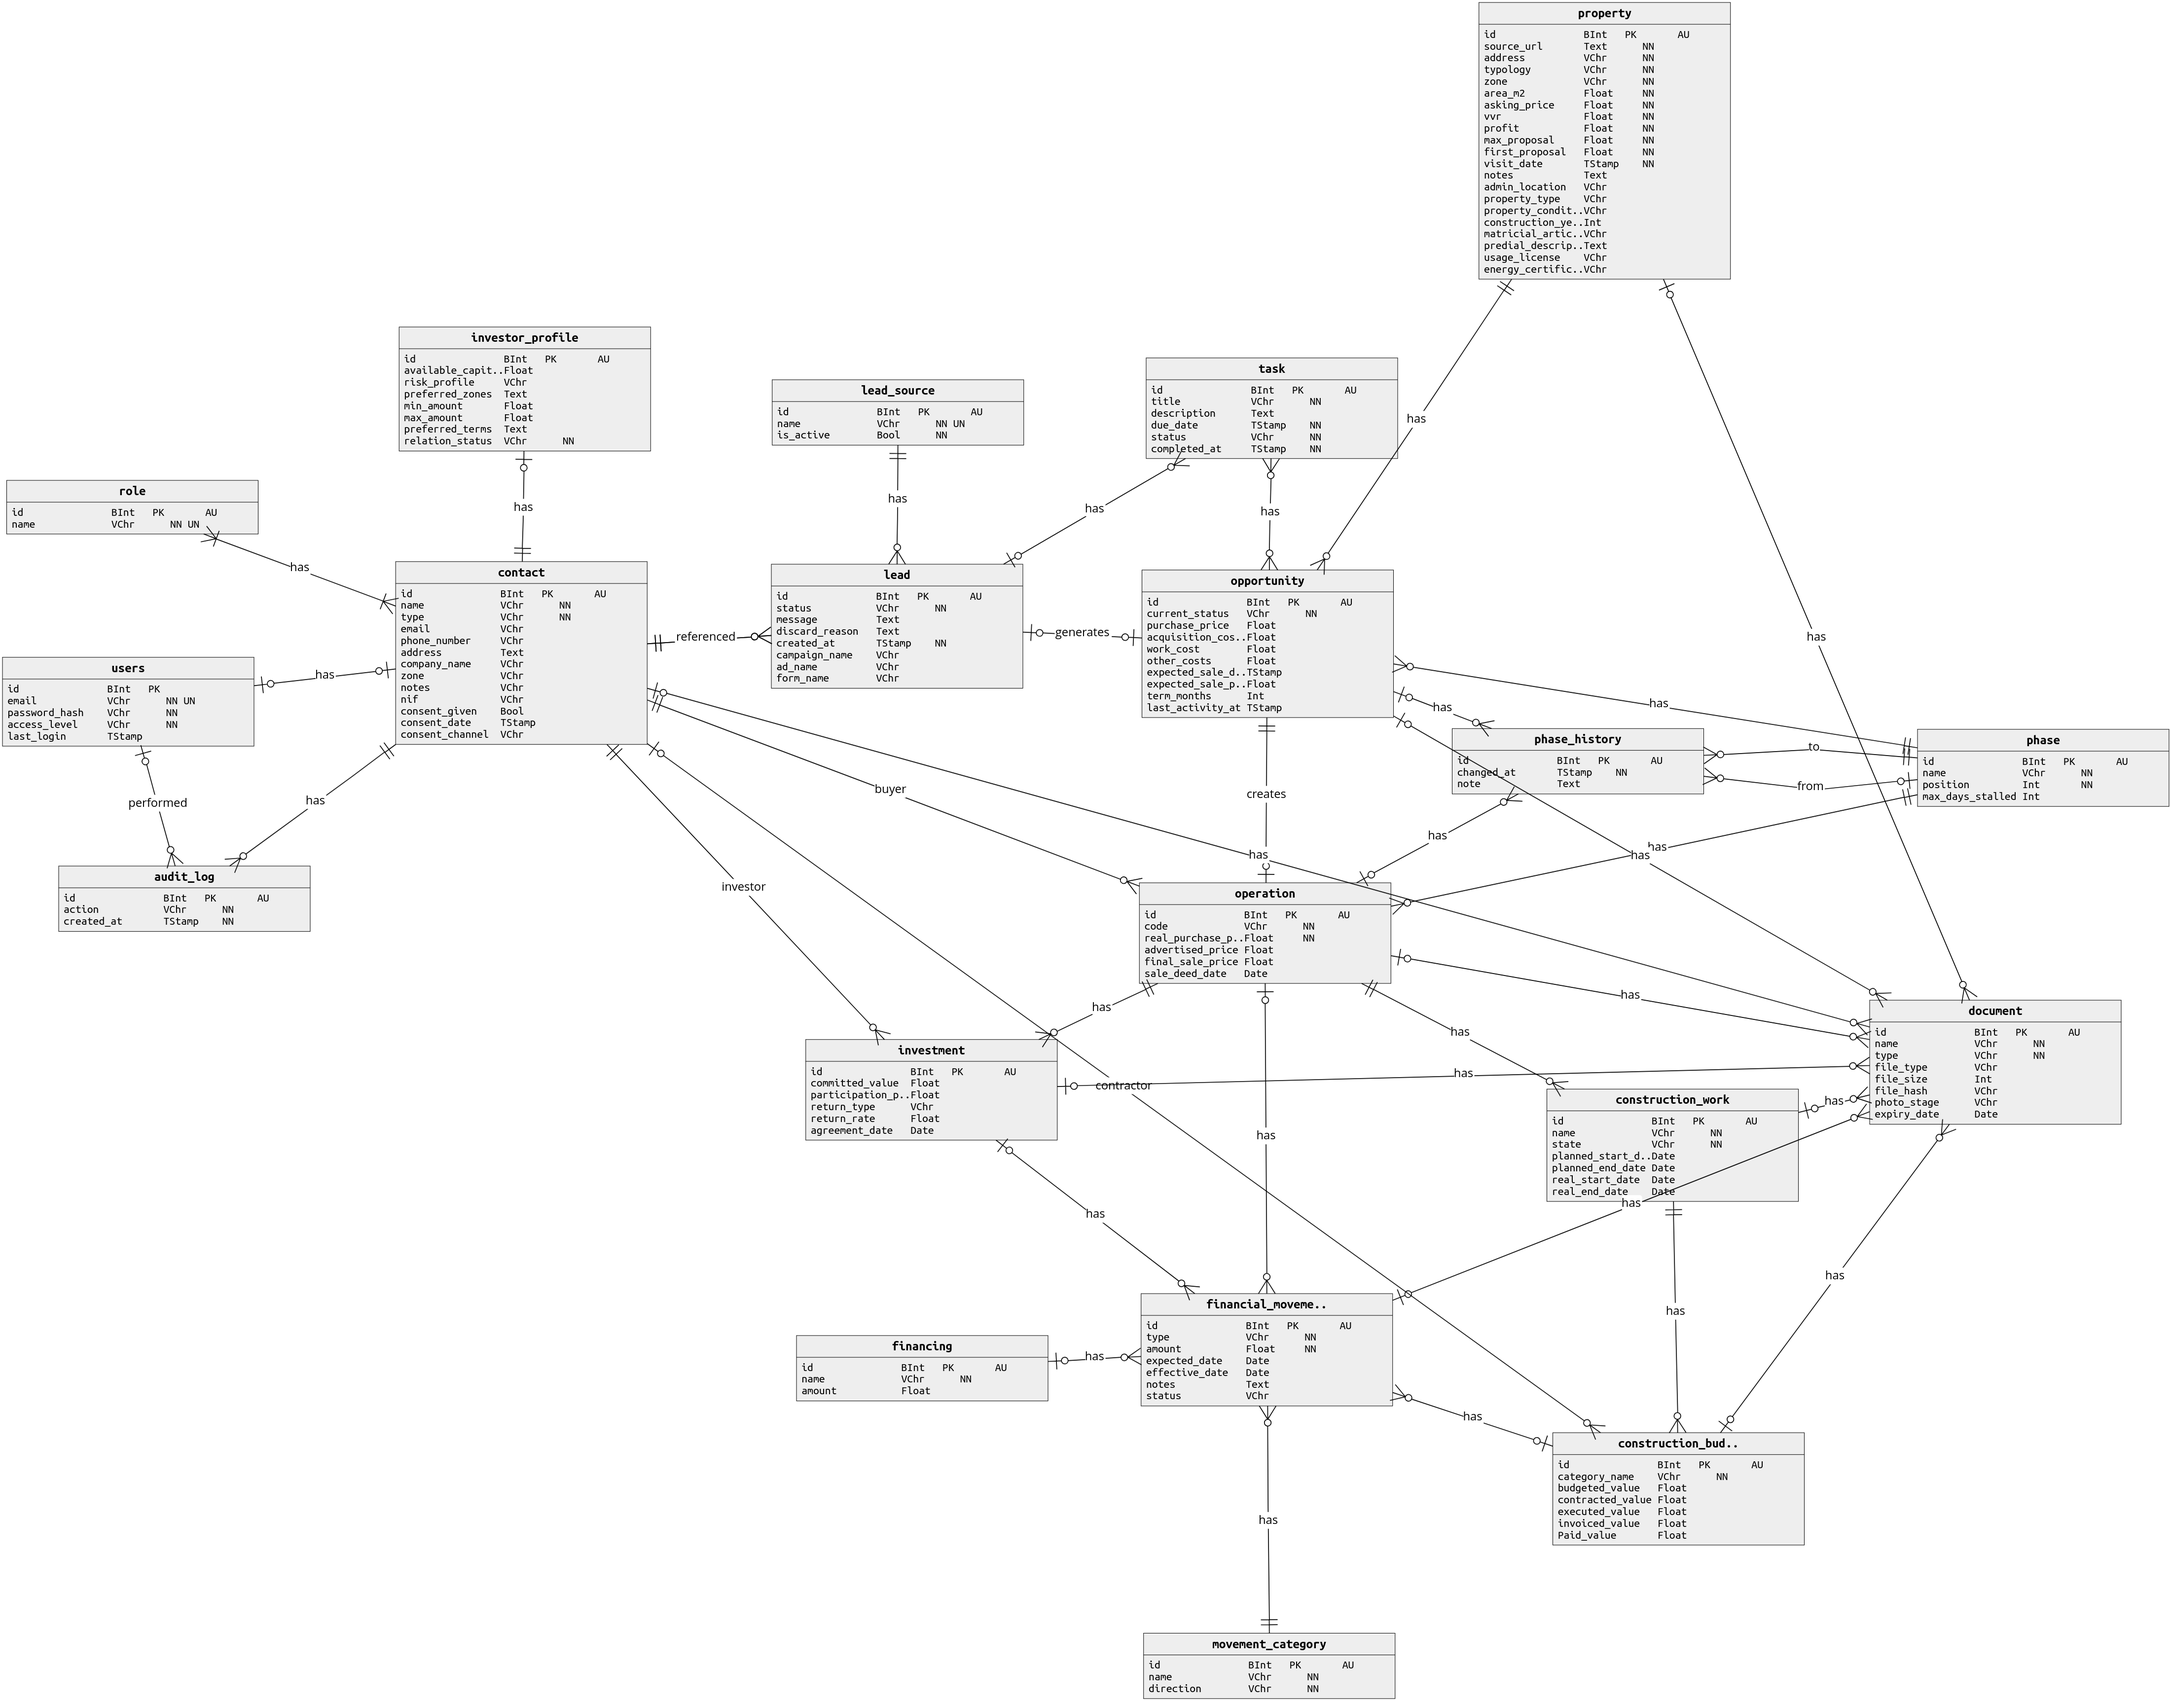
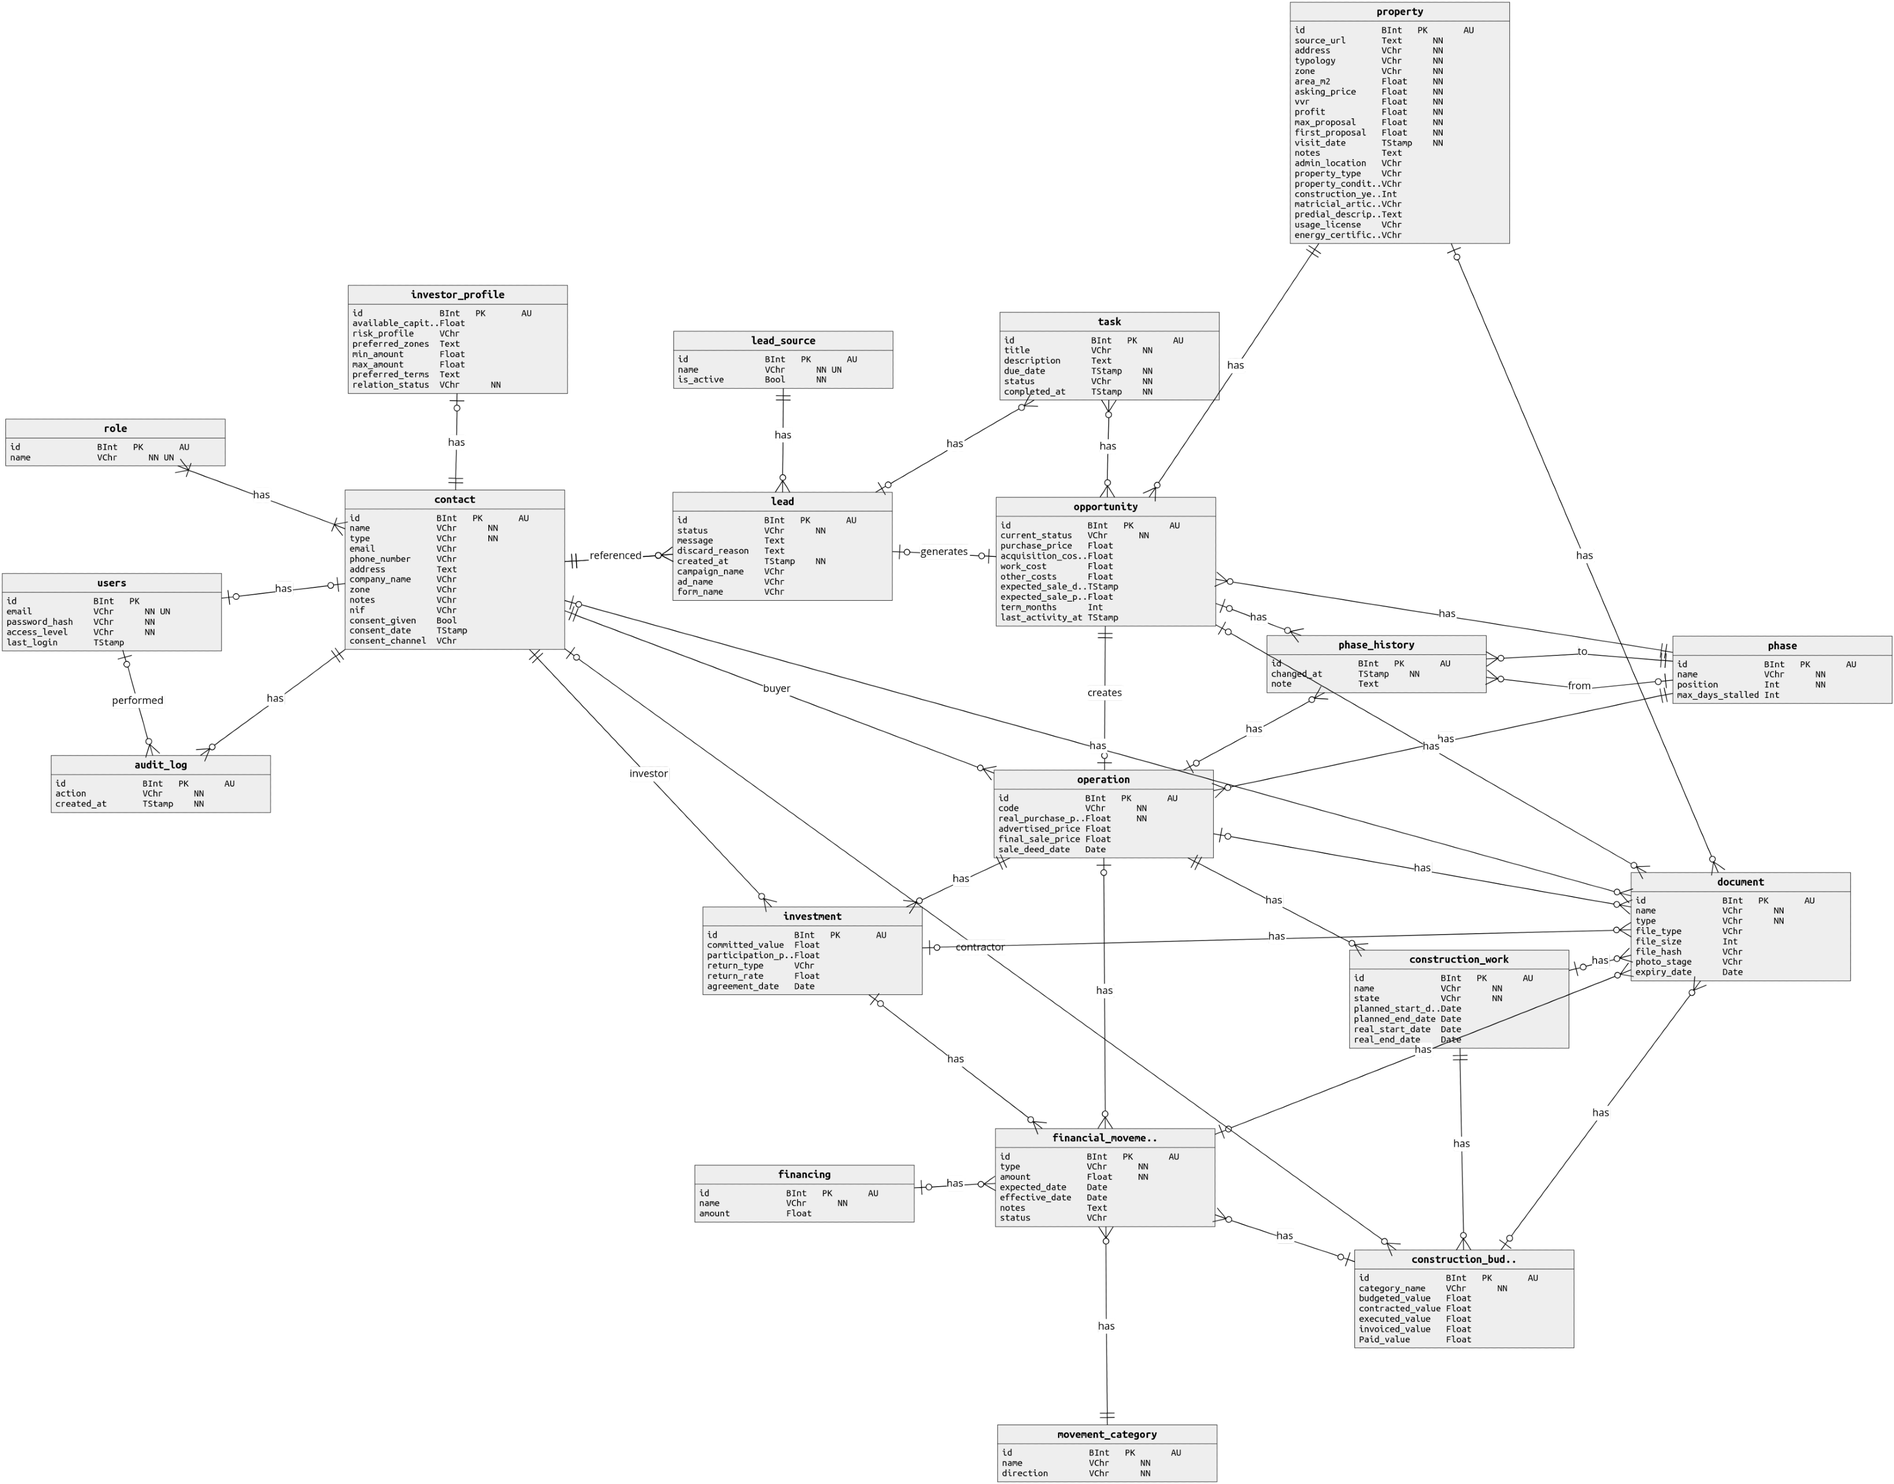
fix ER.png

diff --git a/docs/database/README.md b/docs/database/README.md
@@ -4,14 +4,14 @@ Documentação do modelo de dados do projeto Imoventures.
 
 **Versão atual: v2**
 
-![Diagrama ER v1](v2/ER.png)
+![Diagrama ER v2](v2/ER.png)
 
 ## Ficheiros
 
 | Ficheiro | Descrição |
 |---|---|
-| `v2/er.png` | Diagrama entidade-relação |
-| `v2/model.json` | Modelo editável em https://onda.dei.uc.pt/v4/ |
+| `v2/ER.png` | Diagrama entidade-relação |
+| `v2/ER_ImoVentures_v2.json` | Modelo editável em https://onda.dei.uc.pt/v4/ |
 | `v2/schema.sql` | Cópia de referência do SQL. O código em uso está em [`database/schema.sql`](../../database/schema.sql) |
 
 ## Entidades
@@ -25,7 +25,7 @@ Documentação do modelo de dados do projeto Imoventures.
 | `operation` | Negócio já fechado, em execução |
 | `investment` | Investimento de um contacto numa operação |
 | `construction_work` | Obra de uma operação |
-| `construction_budget` | Rubricas de orçamento da obra |
+| `construction_budget_item` | Rubricas de orçamento da obra |
 | `financial_movement` | Entradas e saídas de dinheiro |
 | `phase` | Fases do processo |
 | `phase_history` | Histórico de mudanças de fase de oportunidades e operações |
@@ -35,11 +35,14 @@ Documentação do modelo de dados do projeto Imoventures.
 | `users` | Utilizadores com acesso à aplicação |
 | `lead_source` | Origens das leads |
 | `task` | Tarefas de acompanhamento de leads e oportunidades |
+| `document` | Documentos associados às entidades do projeto |
+| `audit_log` | Registo de ações realizadas por contactos |
+| `financing` | Financiamento associado a movimentos financeiros |
 
 
 ## Versões
 
 | Versão | Estado | Notas |
 |---|---|---|
-| v1 | atual | Modelo inicial |
-| v2 | atual | Modelo ampliado com novas entidades de documentação, auditoria e financiamento 
+| v1 | antiga | Modelo inicial |
+| v2 | atual | Modelo ampliado com documentação, auditoria e financiamento |
